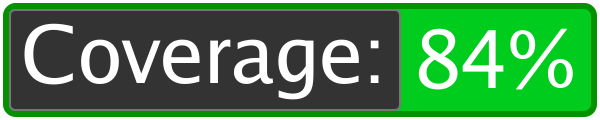
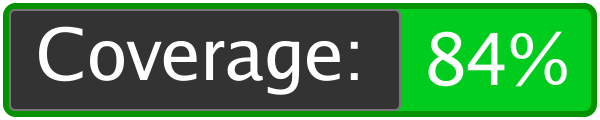
Aesthetic changes

Changed region(s): [[0.03, 0.2, 0.63, 0.85], [0.69, 0.225, 0.96, 0.75]]

diff --git a/badge.go b/badge.go
@@ -53,12 +53,12 @@ func drawBadge(coveragePct float64, filename string) error {
 	dc.Stroke()
 
 	//Drawing text
-	err := dc.LoadFontFace("fonts/luxisr.ttf", 80)
+	err := dc.LoadFontFace("fonts/luxisr.ttf", 72)
 	errCheck("Loading font", err)
 	dc.SetHexColor("#ffffffff")
-	dc.DrawString("Coverage:", 5+15, 120-5*2-27.5)
+	dc.DrawString("Coverage:", 5+30, 120-5*2-30)
 	covPctString := fmt.Sprintf("%2.f", coveragePct) + "%"
-	dc.DrawString(covPctString, 410+5, 120-5*2-22)
+	dc.DrawString(covPctString, 410+15, 120-5*2-25)
 	//Save to file
 	err = dc.SavePNG(filename)
 	errCheck("Saving image file", err)
